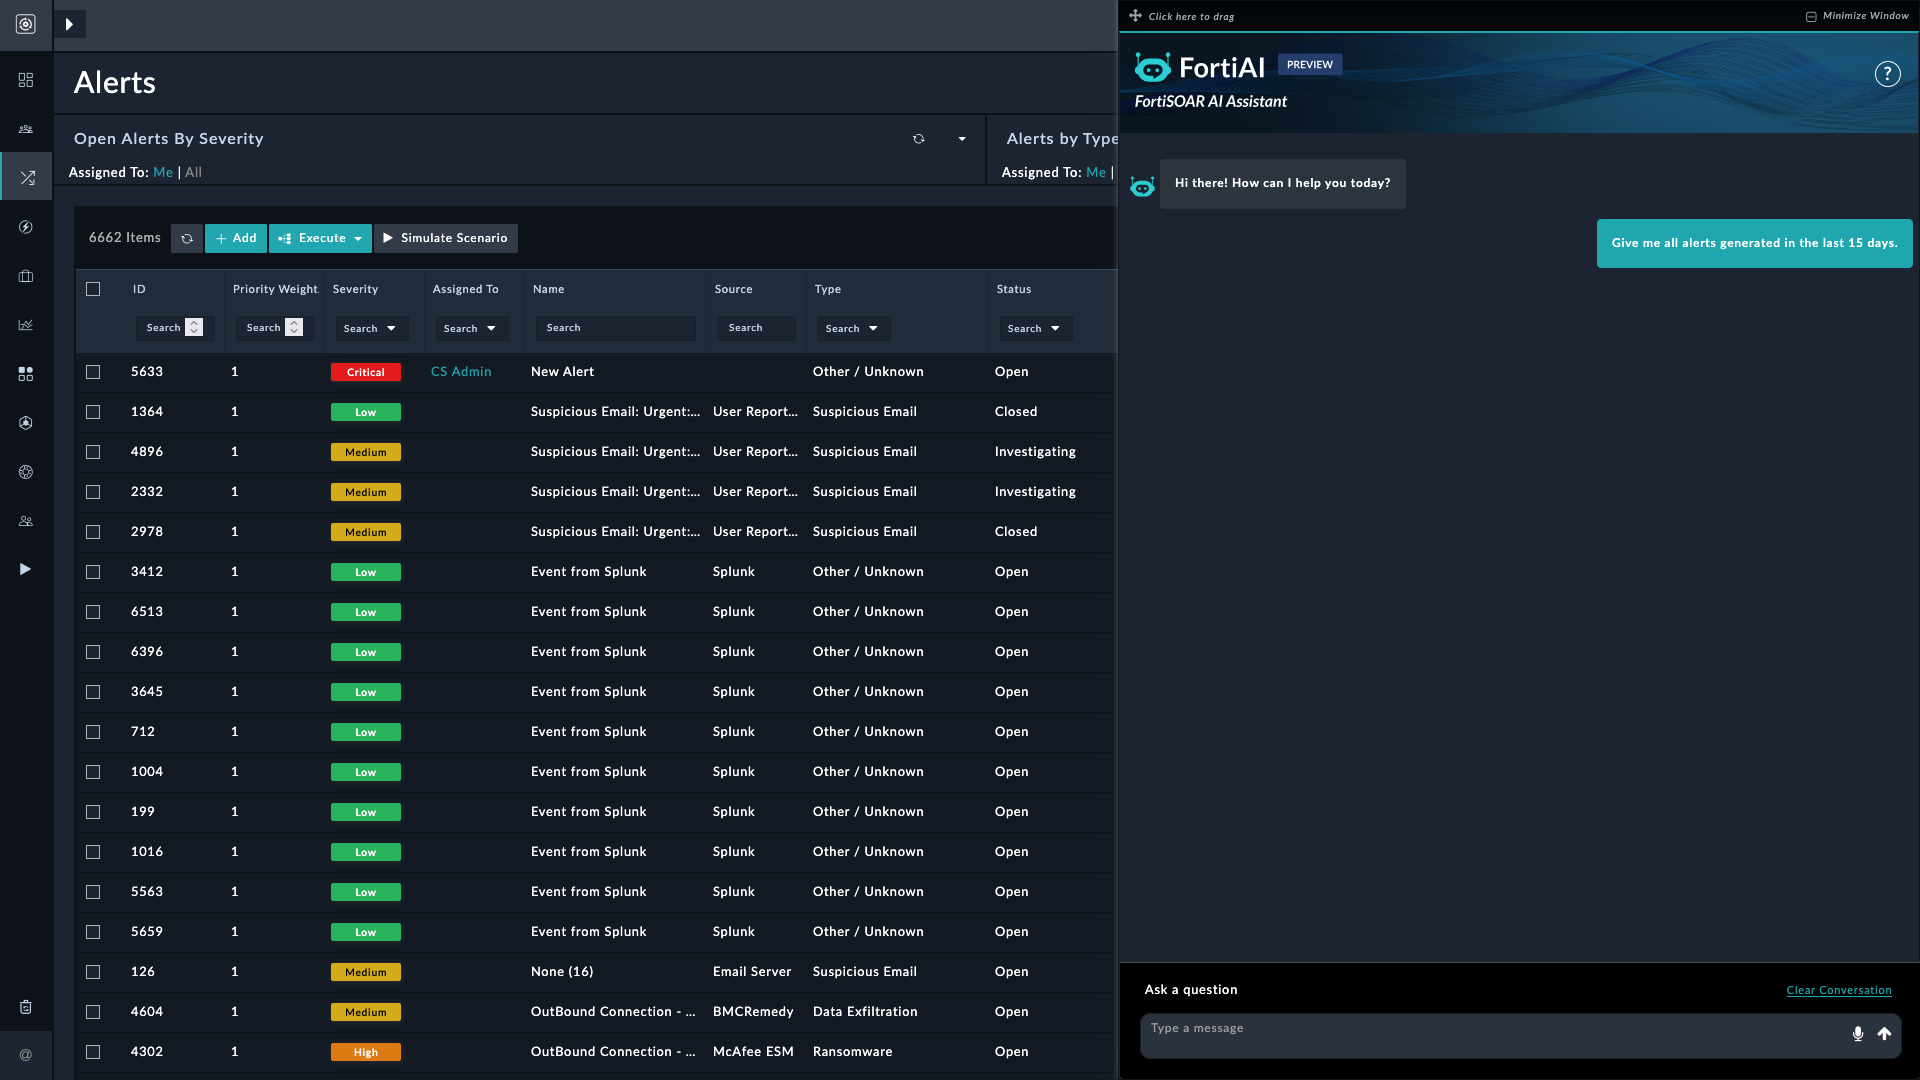
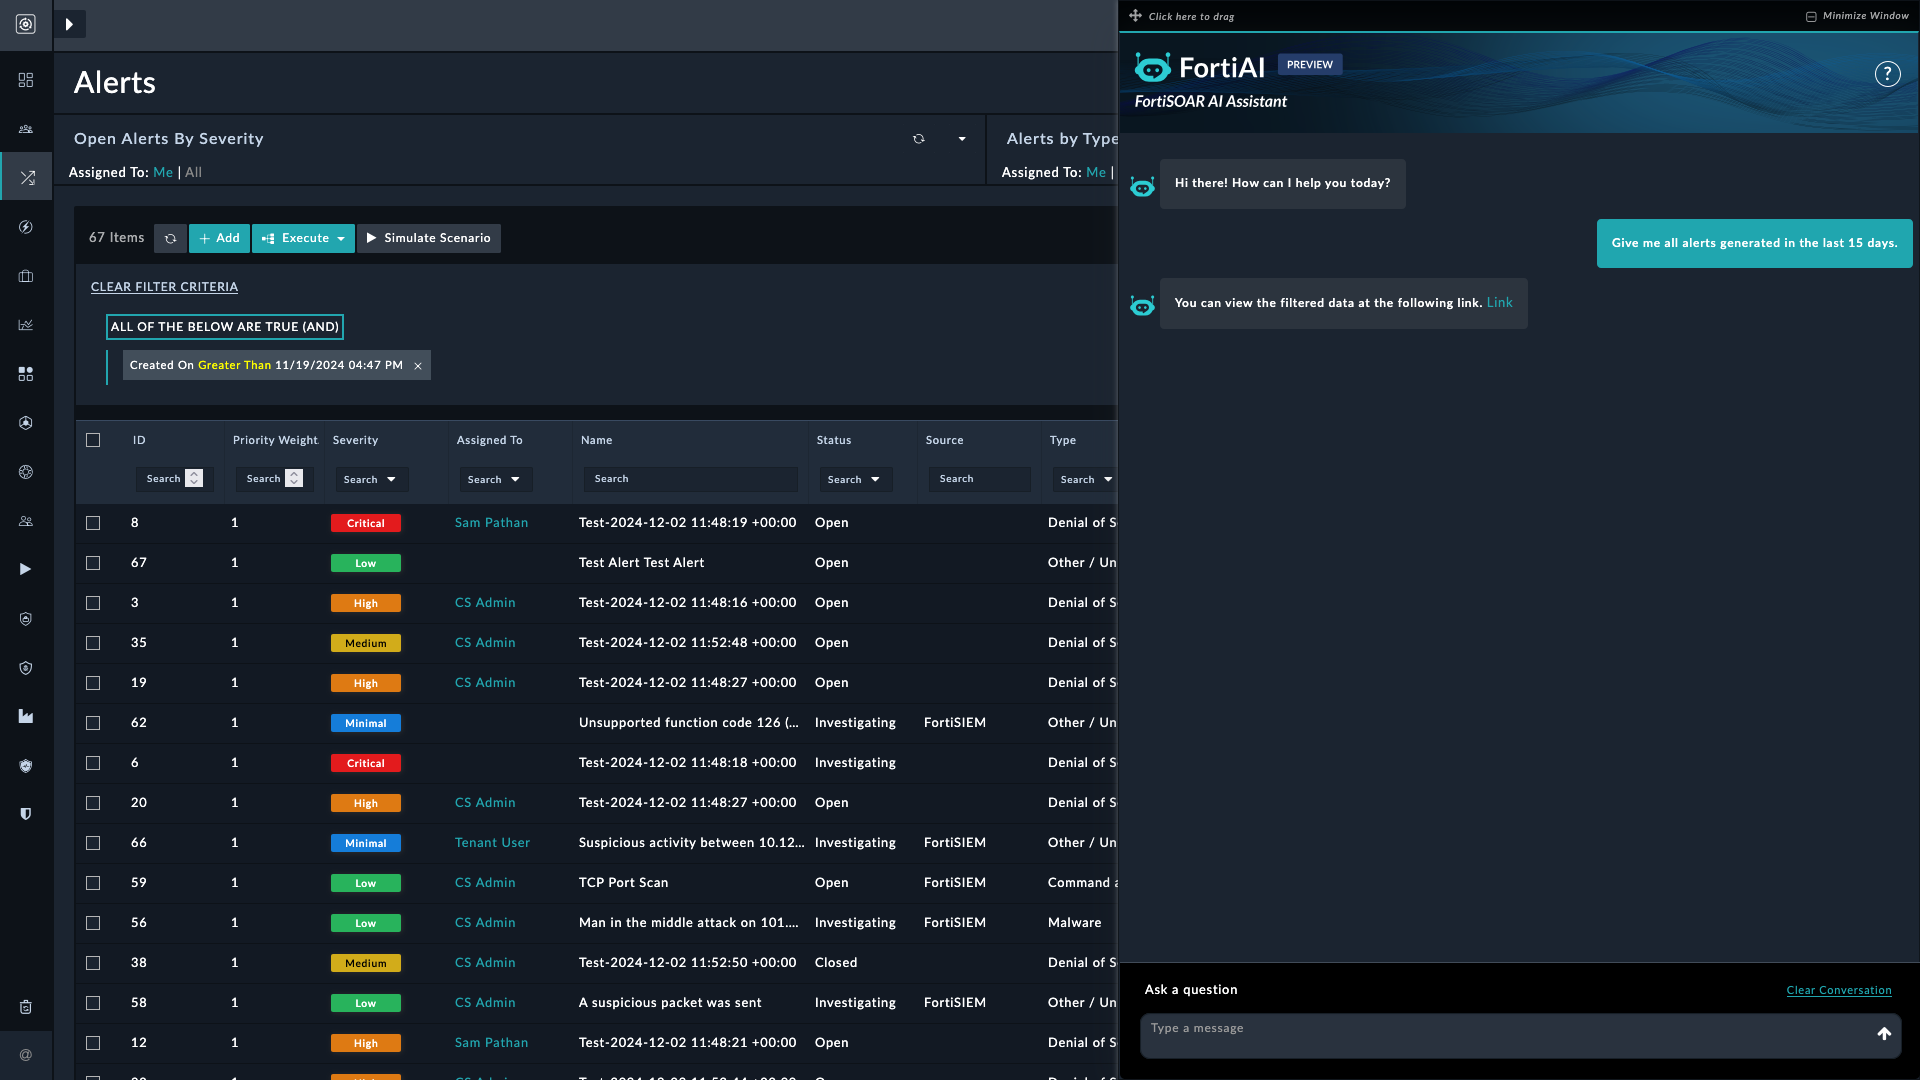
PR comments addressed

diff --git a/release_notes.md b/release_notes.md
@@ -1,10 +1,12 @@
 # What's New
 
-## Support for Voice Recognition in AI Assistant
+### Advanced Filtering for Enhanced Precision  
 
-- The new **Voice Recognition** feature helps streamline SOC tasks with hands-free interaction. This enhancement brings greater flexibility, enabling users to interact through voice commands efficiently.
+The **Advanced Filtering** feature enhances FortiSOAR's search capabilities by allowing users to apply specific criteria to filter records. Whether it's filtering by severity, status, or priority, this functionality ensures that users can retrieve exactly the data they need, improving operational efficiency and decision-making.
 
-- Translates natural language to a query that helps filter records in FortiSOAR, thereby enhancing the **FortiAI** solution pack's functionalities.
+### Voice Recognition for Hands-Free Interaction  
+
+The **Voice Recognition** feature transforms the way users interact with FortiSOAR by enabling hands-free control. This innovation streamlines SOC tasks, offering users greater flexibility to issue commands and retrieve data efficiently using natural language.  
 
 > [!Note]
 > The *Voice Recognition* feature is currently unsupported on the Firefox browser as the webkit `SpeechRecognition` is not compatible with Mozilla Firefox. Hence, the mic button is not available when the FortiSOAR&trade; environment is accessed using the Firefox browser.
@@ -13,4 +15,4 @@
 
 Previously, conversation threads were deleted from OpenAI whenever *Clear Conversation* was clicked, and a new thread was started with each new prompt.
 
-Now, threads are retained within OpenAI, enabling improved historical reference and continuity. Each new prompt still initiates a fresh thread, while the user interface continues to clear conversation history after each prompt, ensuring a clean workspace.
+Now, threads are retained within OpenAI, enabling improved historical reference and continuity. Each new prompt, after clearing the conversation. still initiates a fresh thread, and the *Clear Conversation* option within the user interface continues to clear conversation history, ensuring a clean workspace.

diff --git a/README.md b/README.md
@@ -15,12 +15,19 @@ FortiAI is a context-aware GenAI security assistant that transforms how security
 
 Its unique feature, among others, is its ability to generate playbook blocks tailored to scenarios defined by you, giving you a head start in automating and enhancing your use cases. Whether you are a seasoned playbook developer or just starting out, FortiAI is your go-to partner for streamlined and efficient playbook design.
 
+## Filtering Feature Overview  
+
+FortiAI now includes advanced filtering functionality, allowing users to refine their search for records based on specific criteria. This feature empowers users to quickly retrieve targeted data, such as alerts, incidents, or indicators, improving workflow efficiency. The benefits of this feature include:
+
+- **Enhanced Precision**: Apply specific filters based on severity, status, or other criteria to retrieve exactly what you need.
+- **Time-Saving**: Quickly narrow down search results, reducing the time spent sifting through data and improving decision-making.
+
 ## Voice Support Overview
 
 FortiAI now includes voice-to-natural-language functionality, enabling hands-free interaction. This feature allows users to give voice commands for tasks such as generating playbooks, filtering records, or blocking indicators, streamlining workflows and increasing accessibility. This feature has multiple benefits like the following:
 
-- Enhanced Usability: Issue commands without typing, ideal for multitasking.
-- Efficiency: Quickly perform actions through voice, reducing operational time.
+- **Enhanced Usability**: Issue commands without typing, ideal for multitasking.
+- **Efficiency**: Quickly perform actions through voice, reducing operational time.
 
 > [!Note]
 > The *Voice Recognition* feature is currently unsupported on the Firefox browser as the webkit `SpeechRecognition` is not compatible with Mozilla Firefox. Hence, the mic button is not available when the FortiSOAR&trade; environment is accessed using the Firefox browser.

diff --git a/docs/prompts-for-filtering-alert-records.md b/docs/prompts-for-filtering-alert-records.md
@@ -91,11 +91,15 @@ Similarly, you can use the following prompts to filter alert records.
 
 1. Give me alerts assigned to <user-1>.
  
-2. Give me all alerts generated between October 1, 2024, and October 15, 2024
+2. Give me all alerts created between October 1, 2024, and October 15, 2024
  
-3. Show me all alerts where the *severity* is either high or critical, the status is open or in progress, and the type is malware or phishing. The alerts should have been created on within the last 7 days, and the source IP should start with '192.168.1.
+3. Show me all alerts where the *severity* is either high or critical, the status is open or in progress, and the type is malware or phishing. The alerts should have been created within the last 7 days, and the source IP should start with `192.168.1`.
  
 4. List all in-progress alerts, excluding those of the phishing or suspicious type.
+
+5.  Filter out all the alerts with technique ID `T1074.001`.
+
+6. Find alerts triggered by the rule `PH_RULE_UEBA_AI_FILE_WRITTEN`.
 
 # Next Steps
 

diff --git a/docs/prompts-for-filtering-indicator-records.md b/docs/prompts-for-filtering-indicator-records.md
@@ -5,9 +5,9 @@
 
 This guide contains prompts for efficiently filtering indicators using the FortiAI Assistant. Each prompt focuses on some possible filtering criteria to streamline threat investigation and response.
 
-### Example: Retrieve Incidents with ID Greater Than 400
+### Example: Retrieve Indicators of Type URL
 
-This example demonstrates how to filter incidents based on their ID, allowing users to focus on incidents with an ID value exceeding a specific threshold.
+This example demonstrates how to filter indicators based on their type (URL), allowing users to focus on indicators of a specific type.
 
 * **Prompt**:  
    > _"Give me all indicators of type URL."_
@@ -17,7 +17,7 @@ This example demonstrates how to filter incidents based on their ID, allowing us
 
 ### Review Results
 
-Verify that the results include only incidents with an ID greater than 400, ensuring no incidents with a lower ID are included.
+Verify that the results include only indicators of *type* **URL**.
 
 ### Other examples
 

diff --git a/docs/prompts-for-filtering-incident-records.md b/docs/prompts-for-filtering-incident-records.md
@@ -27,11 +27,11 @@ Similarly, you can use the following prompts to filter incident records.
 
 1. Give me incidents led by me.
  
-2. Give me incidents created today
+2. Give me incidents created in the last 7 days.
  
-3. Give me incidents created the today, tagged as super, and not led by <user-1>
+3. Give me incidents tagged as super, and not led by <user-1>.
  
-4. Give me incidents created in last 7 days.
+4. Fetch incidents of type phishing which are in containment phase.
 
 # Next Steps
 
